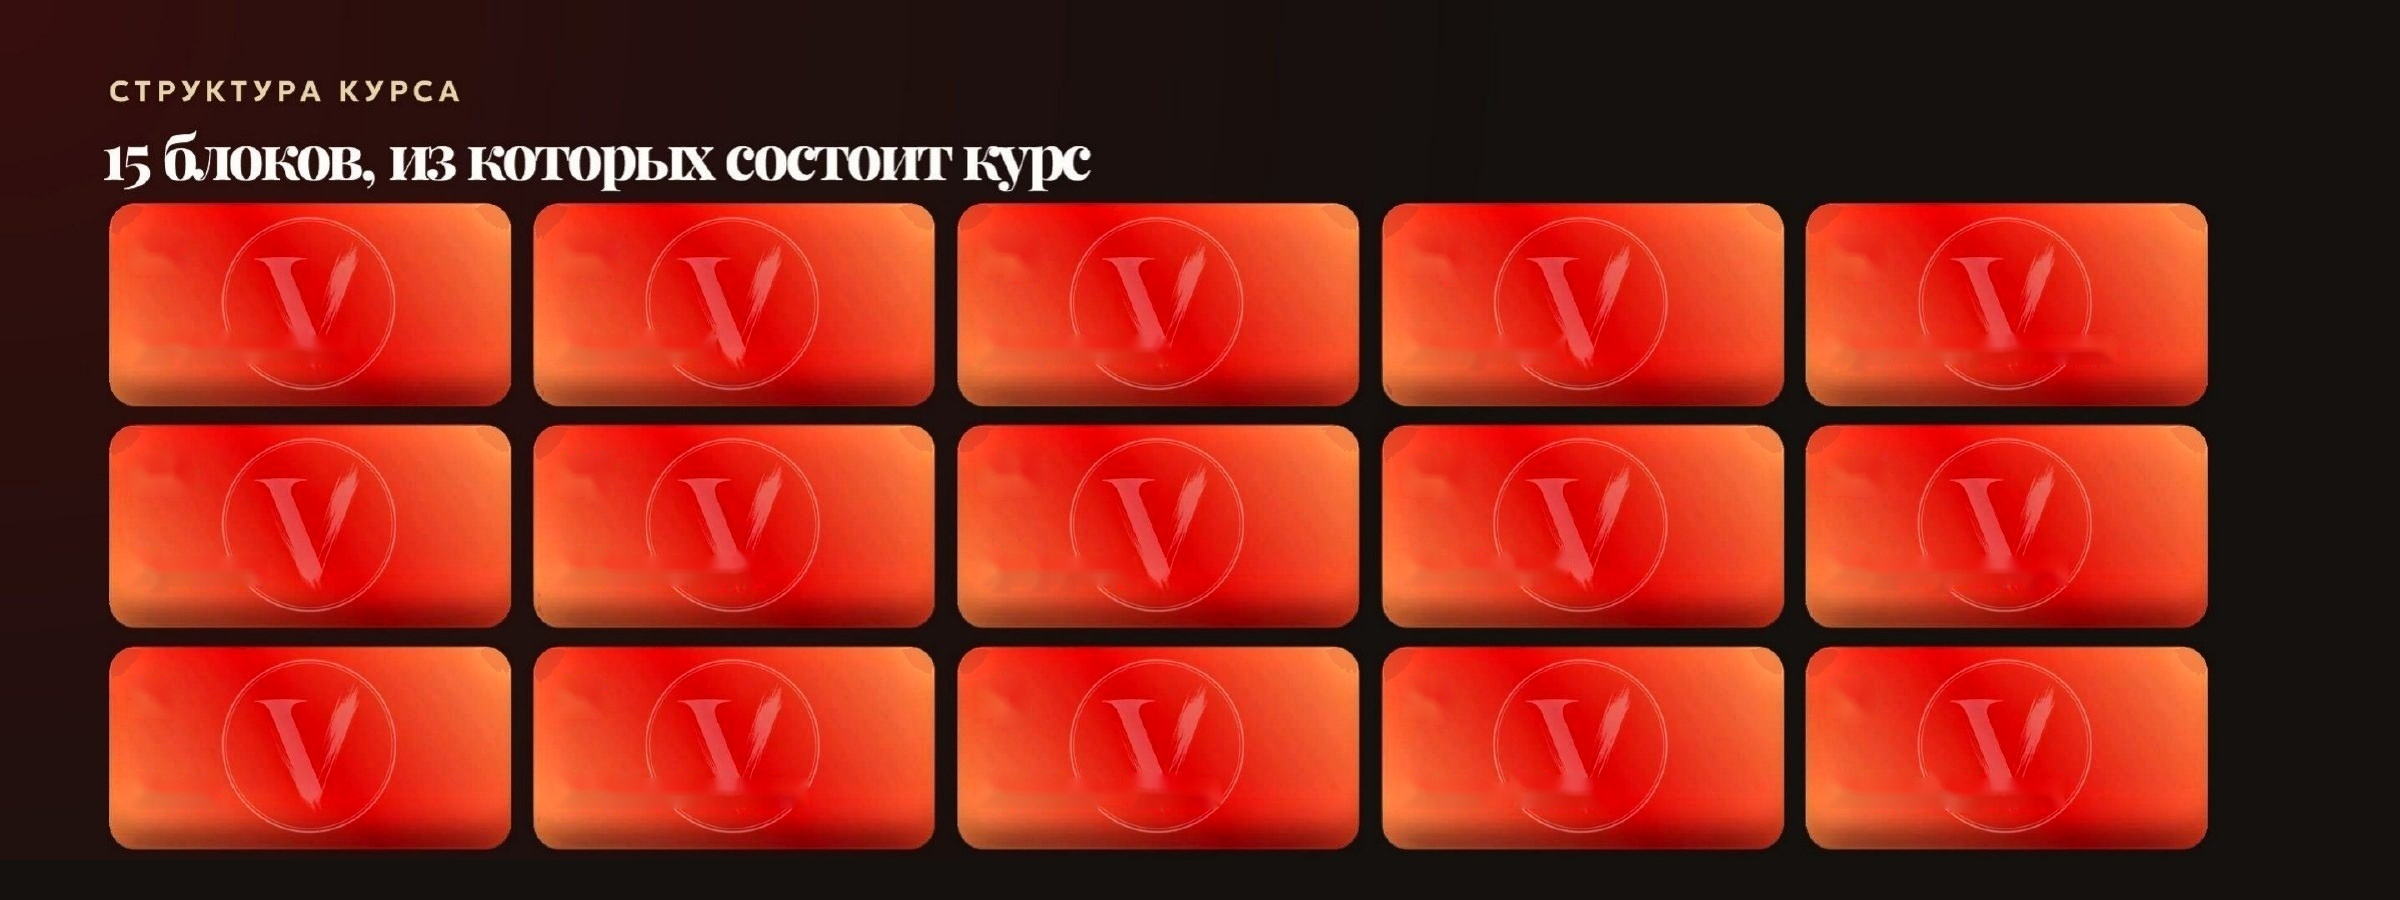
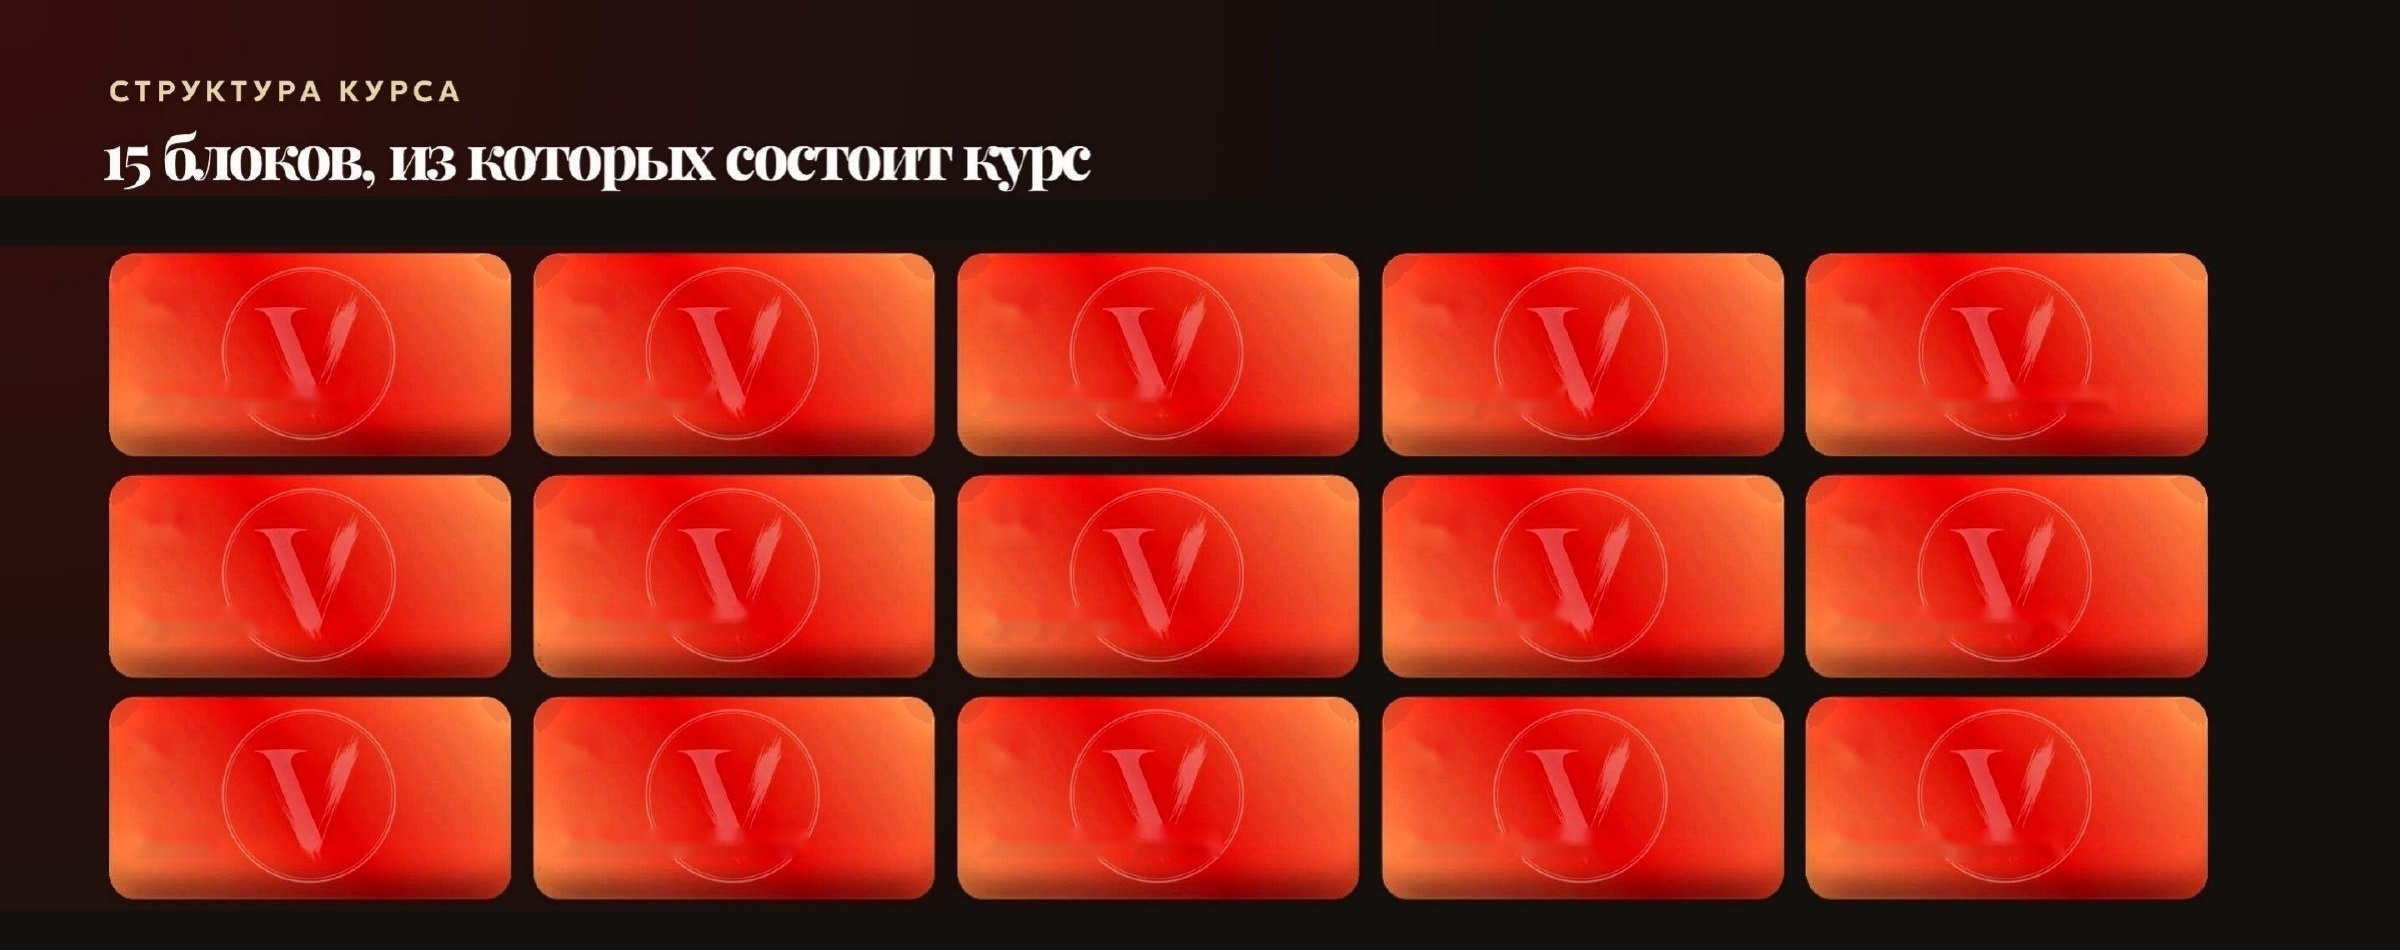
Add breathing room between slide-2 header and the card grid
The heading/subtitle sat right on top of the cards (~20px gap) while
slide 1's heading has generous space before its content -- inconsistent
spacing across the deck. Insert an extra 50px gap below the subtitle
(splitting the image cleanly in the blank band between text and cards,
not through any glyph descenders) and rescale the card/badge overlay
positions to match the new image height.

Claude-Session: https://claude.ai/code/session_01CnfRud7UFKfhrBcKWTmy69

Changed region(s): [[0.0, 0.0622, 0.9375, 0.9644]]

diff --git a/docs/index.html b/docs/index.html
@@ -176,38 +176,38 @@
     <div class="ov ov-badge on-dark"><span class="num">1</span><span class="den">/23</span></div>
   </div>
   <div class="slide-wrap">
-    <img class="slide-img" src="assets/slides/slide-02.jpg?v=8" alt="Слайд 2 — структура курса">
-    <div class="ov ov-card-num" style="left:4.958%;top:25.0%;">01</div>
-    <div class="ov ov-card-label" style="left:4.958%;top:35.889%;width:15.875%;">VIP tattoo school</div>
-    <div class="ov ov-card-num" style="left:22.625%;top:25.0%;">02</div>
-    <div class="ov ov-card-label" style="left:22.625%;top:35.889%;width:15.875%;">AI-assistant</div>
-    <div class="ov ov-card-num" style="left:40.333%;top:25.0%;">03</div>
-    <div class="ov ov-card-label" style="left:40.333%;top:35.889%;width:15.875%;">Безопасность</div>
-    <div class="ov ov-card-num" style="left:58.000%;top:25.0%;">04</div>
-    <div class="ov ov-card-label" style="left:58.000%;top:35.889%;width:15.875%;">Материалы</div>
-    <div class="ov ov-card-num" style="left:75.667%;top:25.0%;">05</div>
-    <div class="ov ov-card-label" style="left:75.667%;top:35.889%;width:15.875%;">Организация + место</div>
-    <div class="ov ov-card-num" style="left:4.958%;top:49.667%;">06</div>
-    <div class="ov ov-card-label" style="left:4.958%;top:60.555%;width:15.875%;">Практика</div>
-    <div class="ov ov-card-num" style="left:22.625%;top:49.667%;">07</div>
-    <div class="ov ov-card-label" style="left:22.625%;top:60.555%;width:15.875%;">Работа с кожей</div>
-    <div class="ov ov-card-num" style="left:40.333%;top:49.667%;">08</div>
-    <div class="ov ov-card-label" style="left:40.333%;top:60.555%;width:15.875%;">Трафареты</div>
-    <div class="ov ov-card-num" style="left:58.000%;top:49.667%;">09</div>
-    <div class="ov ov-card-label" style="left:58.000%;top:60.555%;width:15.875%;">Pro Stories®</div>
-    <div class="ov ov-card-num" style="left:75.667%;top:49.667%;">10</div>
-    <div class="ov ov-card-label" style="left:75.667%;top:60.555%;width:15.875%;">30-дн. практикум</div>
-    <div class="ov ov-card-num" style="left:4.958%;top:74.334%;">11</div>
-    <div class="ov ov-card-label" style="left:4.958%;top:85.223%;width:15.875%;">Стили</div>
-    <div class="ov ov-card-num" style="left:22.625%;top:74.334%;">12</div>
-    <div class="ov ov-card-label" style="left:22.625%;top:85.223%;width:15.875%;">Работа с клиентом</div>
-    <div class="ov ov-card-num" style="left:40.333%;top:74.334%;">13</div>
-    <div class="ov ov-card-label" style="left:40.333%;top:85.223%;width:15.875%;">Реклама — Tattoo</div>
-    <div class="ov ov-card-num" style="left:58.000%;top:74.334%;">14</div>
-    <div class="ov ov-card-label" style="left:58.000%;top:85.223%;width:15.875%;">Zoom — Tattoo</div>
-    <div class="ov ov-card-num" style="left:75.667%;top:74.334%;">15</div>
-    <div class="ov ov-card-label" style="left:75.667%;top:85.223%;width:15.875%;">Именной диплом</div>
-    <div class="ov ov-badge on-dark" style="top:90.6%;"><span class="num">2</span><span class="den">/23</span></div>
+    <img class="slide-img" src="assets/slides/slide-02.jpg?v=9" alt="Слайд 2 — структура курса">
+    <div class="ov ov-card-num" style="left:4.958%;top:28.947%;">01</div>
+    <div class="ov ov-card-label" style="left:4.958%;top:39.263%;width:15.875%;">VIP tattoo school</div>
+    <div class="ov ov-card-num" style="left:22.625%;top:28.947%;">02</div>
+    <div class="ov ov-card-label" style="left:22.625%;top:39.263%;width:15.875%;">AI-assistant</div>
+    <div class="ov ov-card-num" style="left:40.333%;top:28.947%;">03</div>
+    <div class="ov ov-card-label" style="left:40.333%;top:39.263%;width:15.875%;">Безопасность</div>
+    <div class="ov ov-card-num" style="left:58.000%;top:28.947%;">04</div>
+    <div class="ov ov-card-label" style="left:58.000%;top:39.263%;width:15.875%;">Материалы</div>
+    <div class="ov ov-card-num" style="left:75.667%;top:28.947%;">05</div>
+    <div class="ov ov-card-label" style="left:75.667%;top:39.263%;width:15.875%;">Организация + место</div>
+    <div class="ov ov-card-num" style="left:4.958%;top:52.316%;">06</div>
+    <div class="ov ov-card-label" style="left:4.958%;top:62.632%;width:15.875%;">Практика</div>
+    <div class="ov ov-card-num" style="left:22.625%;top:52.316%;">07</div>
+    <div class="ov ov-card-label" style="left:22.625%;top:62.632%;width:15.875%;">Работа с кожей</div>
+    <div class="ov ov-card-num" style="left:40.333%;top:52.316%;">08</div>
+    <div class="ov ov-card-label" style="left:40.333%;top:62.632%;width:15.875%;">Трафареты</div>
+    <div class="ov ov-card-num" style="left:58.000%;top:52.316%;">09</div>
+    <div class="ov ov-card-label" style="left:58.000%;top:62.632%;width:15.875%;">Pro Stories®</div>
+    <div class="ov ov-card-num" style="left:75.667%;top:52.316%;">10</div>
+    <div class="ov ov-card-label" style="left:75.667%;top:62.632%;width:15.875%;">30-дн. практикум</div>
+    <div class="ov ov-card-num" style="left:4.958%;top:75.684%;">11</div>
+    <div class="ov ov-card-label" style="left:4.958%;top:86.0%;width:15.875%;">Стили</div>
+    <div class="ov ov-card-num" style="left:22.625%;top:75.684%;">12</div>
+    <div class="ov ov-card-label" style="left:22.625%;top:86.0%;width:15.875%;">Работа с клиентом</div>
+    <div class="ov ov-card-num" style="left:40.333%;top:75.684%;">13</div>
+    <div class="ov ov-card-label" style="left:40.333%;top:86.0%;width:15.875%;">Реклама — Tattoo</div>
+    <div class="ov ov-card-num" style="left:58.000%;top:75.684%;">14</div>
+    <div class="ov ov-card-label" style="left:58.000%;top:86.0%;width:15.875%;">Zoom — Tattoo</div>
+    <div class="ov ov-card-num" style="left:75.667%;top:75.684%;">15</div>
+    <div class="ov ov-card-label" style="left:75.667%;top:86.0%;width:15.875%;">Именной диплом</div>
+    <div class="ov ov-badge on-dark" style="top:91.09%;"><span class="num">2</span><span class="den">/23</span></div>
   </div>
   <div class="slide-wrap">
     <img class="slide-img" src="assets/slides/slide-03.jpg?v=7" alt="Слайд 3 — формат поддержки">
